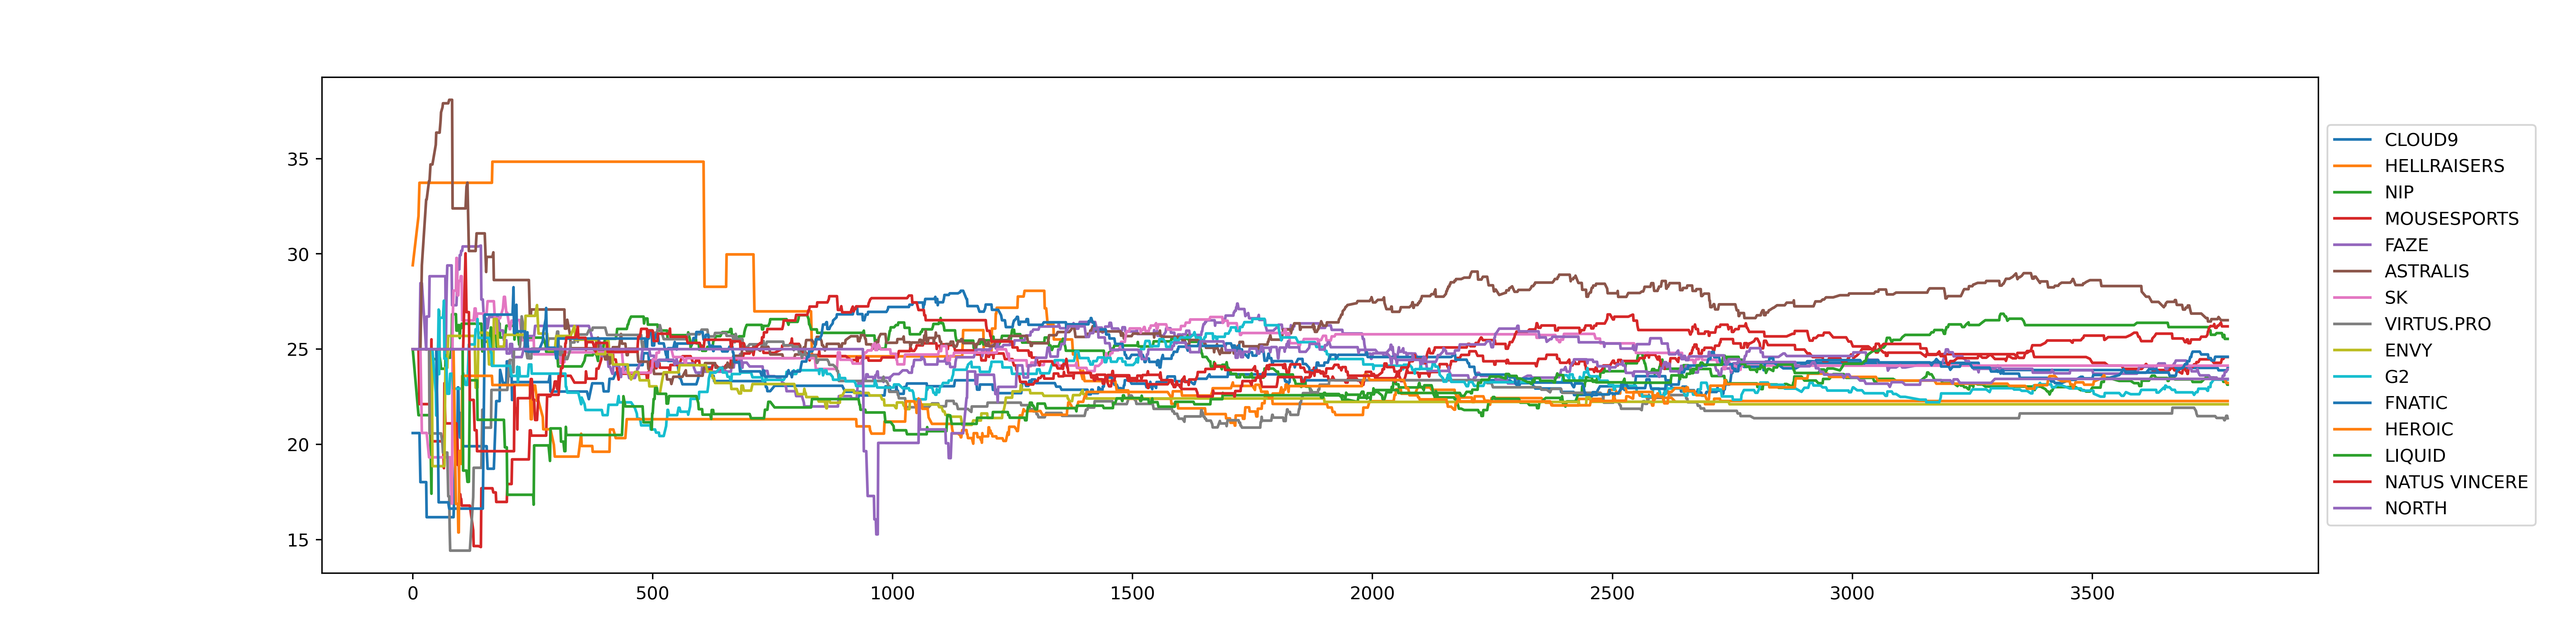
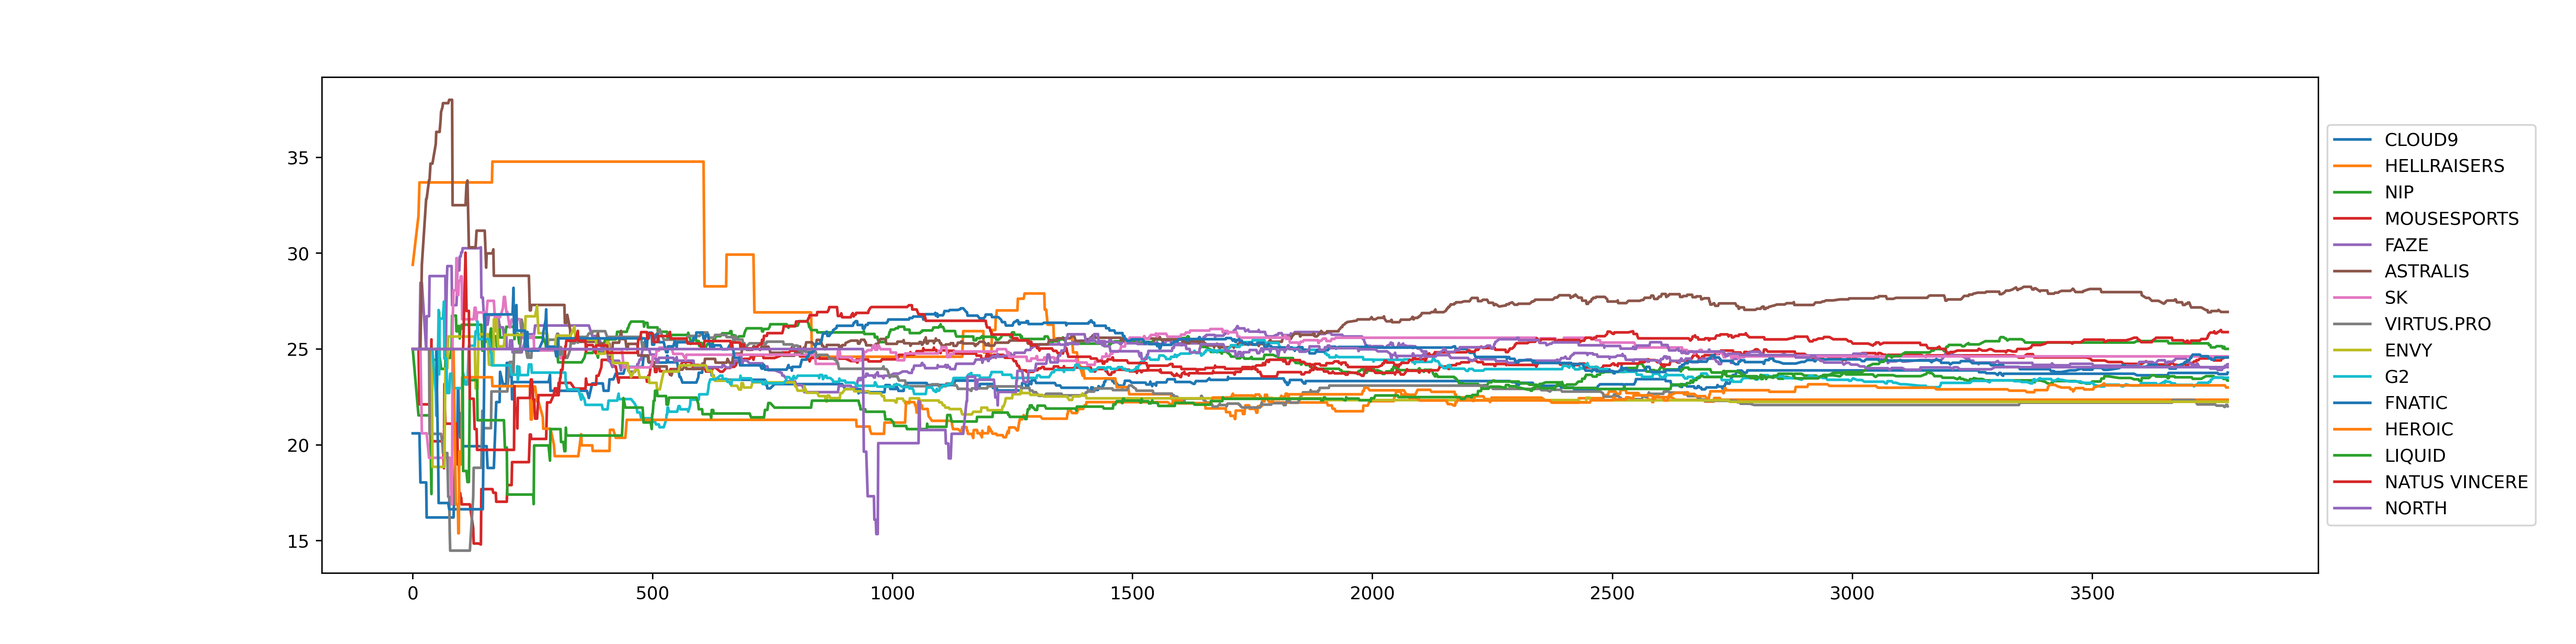
experimental rating coeff change

diff --git a/src/trueskillplus/data_analysis/data_analysis_csgo.py b/src/trueskillplus/data_analysis/data_analysis_csgo.py
@@ -105,12 +105,10 @@ df['kdr_diff'] = kdr_diff
 
 df['predicted_winner'] = 0
 df['t1_win_probability'] = 0
-df['t1_ts_rating'] = 0
-df['t2_ts_rating'] = 0
+
 predictions = []
 probabilities = []
-t1_ts_ratings = []
-t2_ts_ratings = []
+
 
 """
 Calculate original trueskil ratings
@@ -121,8 +119,7 @@ for index, row in df.iterrows():
     p = ts_plus_env.win_probability(team1=[ts_ratings[row['team_1']]], team2=[ts_ratings[row['team_2']]]) #TODO danger, environments could be different. 
     predictions.append('t1') if p > 0.5 else predictions.append('t2')
     probabilities.append(p)
-    t1_ts_ratings.append(ts_ratings[row['team_1']])
-    t2_ts_ratings.append(ts_ratings[row['team_2']])
+  
     if (row['winner'] == 't1'):
 
         t1_new_rating, t2_new_rating = ts_env.rate_1vs1(
@@ -149,10 +146,7 @@ for index, row in df.iterrows():
 
 df['predicted_winner'] = predictions
 df['t1_win_probability'] = probabilities
-df['t1_ts_rating_mu'] = [x.mu for x in t1_ts_ratings]
-df['t1_ts_rating_sigma'] = [x.sigma for x in t1_ts_ratings]
-df['t2_ts_rating_mu'] = [x.mu for x in t2_ts_ratings]
-df['t2_ts_rating_sigma'] = [x.sigma for x in t2_ts_ratings]
+
 #needed for plot
 label_list = []
 for key, value in ts_ratings.items():
@@ -207,11 +201,11 @@ for index, row in df.iterrows():
     
     if (row['winner'] == 't1'):
         pred_array = np.array([ row['t1_points'], row['t2_points'], 1.0, 0.0, 1.0 if row['is_bestof'] == False else 0.0, 1.0 if row['is_bestof'] == True else 0.0, 
-                              ts_plus_ratings[row['team_1']].mu, ts_plus_ratings[row['team_2']].mu])
+                              ])
         t1_new_rating, t2_new_rating = ts_plus_env.rate_1vs1(
             rating1=ts_plus_ratings[row['team_1']], rating2=ts_plus_ratings[row['team_2']],
             stats=row['kdr_diff'],
-            predicted_stats=ts_plus_model(np.reshape(pred_array, (1,8)))
+            predicted_stats=ts_plus_model(np.reshape(pred_array, (1,6)))
             )
 
         ts_plus_ratings[row['team_1']] = t1_new_rating
@@ -219,13 +213,13 @@ for index, row in df.iterrows():
 
     elif (row['winner'] == 't2'):
         pred_array= np.array([ row['t1_points'], row['t2_points'], 0.0, 1.0, 1.0 if row['is_bestof'] == False else 0.0, 1.0 if row['is_bestof'] == True else 0.0,
-                              ts_plus_ratings[row['team_1']].mu, ts_plus_ratings[row['team_2']].mu])
+                              ])
         
         t2_new_rating, t1_new_rating = ts_plus_env.rate_1vs1(
             rating1=ts_plus_ratings[row['team_2']], 
             rating2=ts_plus_ratings[row['team_1']],
             stats=row['kdr_diff'],
-            predicted_stats=ts_plus_model(np.reshape(pred_array, (1,8)))
+            predicted_stats=ts_plus_model(np.reshape(pred_array, (1,6)))
             )
 
         ts_plus_ratings[row['team_1']] = t1_new_rating

diff --git a/src/trueskillplus/data_analysis/data_analysis_league.py b/src/trueskillplus/data_analysis/data_analysis_league.py
@@ -47,8 +47,6 @@ ts_env = trueskill.TrueSkill(draw_probability=0)
 ts_plus_env = trueskillplus.Trueskillplus(draw_probability=0, stat_coeff = 0.00001)
 
 df['predicted_bResult'] = '?'
-df['bRating'] = '?'
-df['rRating'] = '?'
 
 #prepare graph
 x = np.arange(len(df))
@@ -61,8 +59,6 @@ for index, row in df.iterrows():
     b_win_prob = ts_plus_env.win_probability([ts_ratings[row['blueTeamTag']]], [ts_ratings[row['redTeamTag']]])
     
     df.at[index, 'predicted_bResult'] = 1 if b_win_prob > 0.5 else 0
-    df.at[index, 'bRating'] = ts_ratings[row['blueTeamTag']].mu
-    df.at[index, 'rRating'] = ts_ratings[row['redTeamTag']].mu
 
     if row['bResult'] == 1:
         #blue win
@@ -116,20 +112,20 @@ for index, row in df.iterrows():
 
     df.at[index, 'predicted_bResult'] = 1 if b_win_prob > 0.5 else 0
 
-    pred_array = np.array(row[['bResult', 'rResult', 'bKills', 'bTowers' , 'bInhibs' , 'bDragons' , 'bBarons'  ,'bHeralds' , 'rKills' , 'rTowers' , 'rInhibs'  ,'rDragons' , 'rBarons'  ,'rHeralds', 'bRating', 'rRating']]).astype(float)
+    pred_array = np.array(row[['bResult', 'rResult', 'bKills', 'bTowers' , 'bInhibs' , 'bDragons' , 'bBarons'  ,'bHeralds' , 'rKills' , 'rTowers' , 'rInhibs'  ,'rDragons' , 'rBarons'  ,'rHeralds']]).astype(float)
     
     if row['bResult'] == 1:
         #blue win
         b_new_rating, r_new_rating = ts_plus_env.rate_1vs1(rating1=ts_plus_ratings[row['blueTeamTag']],rating2= ts_plus_ratings[row['redTeamTag']], 
                                                             stats=row['golddiff'],
-                                                            predicted_stats=model(np.reshape(pred_array, (1,16))))
+                                                            predicted_stats=model(np.reshape(pred_array, (1,14))))
         ts_plus_ratings[row['blueTeamTag']] = b_new_rating
         ts_plus_ratings[row['redTeamTag']] = r_new_rating
     else:
         #red win
         r_new_rating, b_new_rating = ts_plus_env.rate_1vs1(rating1=ts_plus_ratings[row['redTeamTag']],rating2= ts_plus_ratings[row['blueTeamTag']],
                                                             stats=row['golddiff'],
-                                                            predicted_stats=model(np.reshape(pred_array, (1,16))))
+                                                            predicted_stats=model(np.reshape(pred_array, (1,14))))
         ts_plus_ratings[row['redTeamTag']] = r_new_rating
         ts_plus_ratings[row['blueTeamTag']] = b_new_rating
 

diff --git a/src/trueskillplus/model/game_model.py b/src/trueskillplus/model/game_model.py
@@ -8,7 +8,7 @@ Trains a predictive model used to guess scores based on past matches.
 """
 def train_csgo_model(df : pd.DataFrame):
     #drop unnecessary columns
-    df = df[['winner', 't1_points', 't2_points', 'is_bestof', 'kdr_diff', 't1_ts_rating_mu', 't2_ts_rating_mu']]
+    df = df[['winner', 't1_points', 't2_points', 'is_bestof', 'kdr_diff']]
 
     # Convert column to a one-hot encoded format
     df= pd.get_dummies(df, columns=['winner', 'is_bestof'], dtype=np.float64)
@@ -26,7 +26,7 @@ def train_csgo_model(df : pd.DataFrame):
 
     # Create a multilayer perceptron model with ReLU activation
     model = tf.keras.models.Sequential([
-        tf.keras.layers.Dense(32, activation='relu', input_shape=(8,)),
+        tf.keras.layers.Dense(32, activation='relu', input_shape=(6,)),
         tf.keras.layers.Dense(32, activation='relu'),
         tf.keras.layers.Dense(8, activation='relu'),
         tf.keras.layers.Dense(1)
@@ -63,7 +63,7 @@ def train_csgo_model(df : pd.DataFrame):
     """
 
 def train_league_model(df : pd.DataFrame):
-    df = df[['golddiff','bResult', 'rResult', 'bKills', 'bTowers' , 'bInhibs' , 'bDragons' , 'bBarons'  ,'bHeralds' , 'rKills' , 'rTowers' , 'rInhibs'  ,'rDragons' , 'rBarons'  ,'rHeralds', 'bRating', 'rRating']].astype(float)
+    df = df[['golddiff','bResult', 'rResult', 'bKills', 'bTowers' , 'bInhibs' , 'bDragons' , 'bBarons'  ,'bHeralds' , 'rKills' , 'rTowers' , 'rInhibs'  ,'rDragons' , 'rBarons'  ,'rHeralds']].astype(float)
    
     X = df.drop(['golddiff'], axis=1).values
     y = df[['golddiff']].values
@@ -73,7 +73,7 @@ def train_league_model(df : pd.DataFrame):
 
     # Create a multilayer perceptron model with ReLU activation
     model = tf.keras.models.Sequential([
-        tf.keras.layers.Dense(16, activation='relu', input_shape=(16,)),
+        tf.keras.layers.Dense(16, activation='relu', input_shape=(14,)),
         tf.keras.layers.Dense(16, activation='relu'),
         tf.keras.layers.Dense(8, activation='relu'),
         tf.keras.layers.Dense(1)

diff --git a/src/trueskillplus/__init__.py b/src/trueskillplus/__init__.py
@@ -9,7 +9,7 @@ sys.path.append('..')
 
 #no ranks, no draws
 class Trueskillplus():
-    def __init__(self, stat_coeff = 1, draw_probability=0):
+    def __init__(self, stat_coeff = 0, draw_probability=0):
         self.env = trueskill.TrueSkill(draw_probability=0)
         #todo: give env the following
         #stat coeff: difference from the expected * how much should be the new sigma?
@@ -79,14 +79,20 @@ class Trueskillplus():
         
         if stats is not None and predicted_stats is not None:
             
-
+            rating_diff = abs(rating1.mu - rating2.mu)
             stat_diff = abs(stats-predicted_stats)
+            #we would need to know the relation between +1 rating <-> +how much stats. should be a 'hyperparamener'
+            #TODO ditch this if it doesnt perform well
+            #add coeffs for both values maybe?
+            stat_offset = (stat_diff / (rating_diff + 1)) *  self.stat_coeff
             
+        else:
+            stat_offset = 0
 
             
             
         
-        rating1 = trueskill.Rating(rating1.mu, rating1.sigma + stat_diff * self.stat_coeff)
-        rating2 = trueskill.Rating(rating2.mu, rating2.sigma + stat_diff * self.stat_coeff) #large diff means an upset happened, so sigma gets modified
+        rating1 = trueskill.Rating(rating1.mu, rating1.sigma + stat_offset)
+        rating2 = trueskill.Rating(rating2.mu, rating2.sigma + stat_offset) #large diff means an upset happened, so sigma gets modified
         #add experience_offset to ratings here
         return trueskill.rate_1vs1(rating1, rating2)
